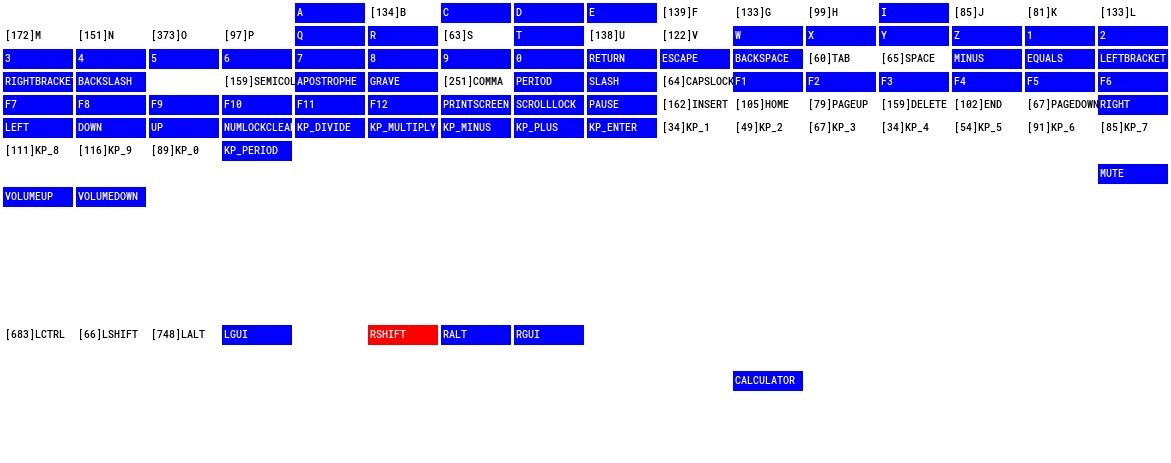
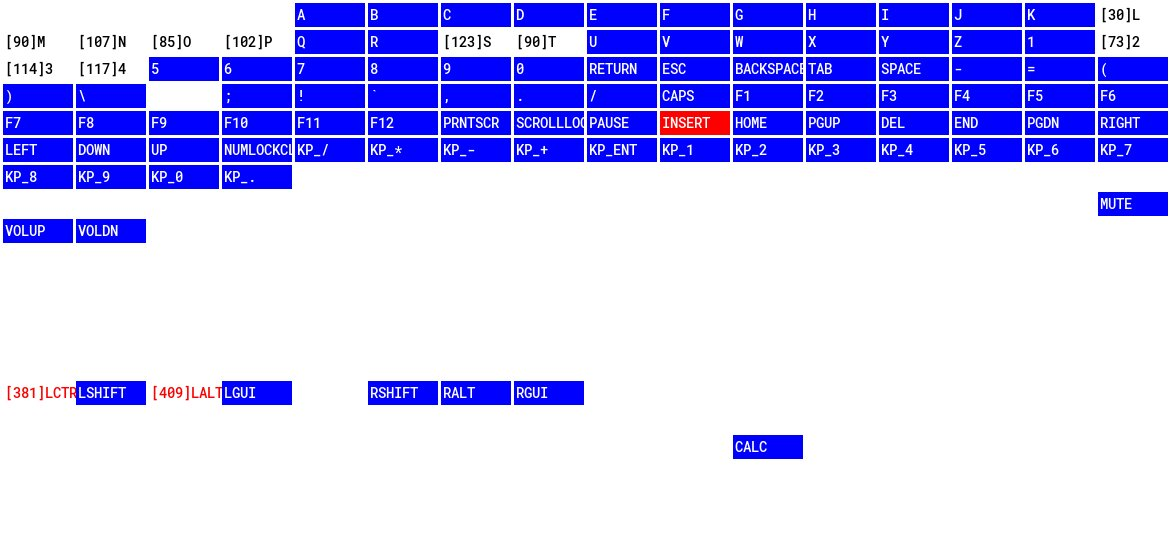
Some clean ups. #define'd FONT_SIZE at top, resize cells based on that Set FONT_SIZE to 14pt for readability.

diff --git a/keyboard-tester.c b/keyboard-tester.c
@@ -5,13 +5,15 @@
 #include <string.h>
 #include <time.h>
 
+#define FONT_NAME "font.ttf"
+#define FONT_SIZE 14
 
 #define PATH_MAX 4096
 
 #define KEYMAP_SIZE 285 // how many actual keyboard scancodes there are that SDL2 recognises
 
 #define KEY_WIDTH 70
-#define KEY_HEIGHT 20
+#define KEY_HEIGHT FONT_SIZE+10 
 #define KEY_SPACING 3
 #define KEYS_ACROSS 16
 #define KEYS_DOWN 20
@@ -21,7 +23,6 @@
 
 #define FL __FILE__,__LINE__
 
-#define FONT_NAME "font.ttf"
 
 
 struct key {
@@ -101,27 +102,27 @@ int map_default( struct globals *g ) {
 
 	g->keys[39].name = "0";
 	g->keys[40].name = "RETURN";
-	g->keys[41].name = "ESCAPE";
+	g->keys[41].name = "ESC";
 	g->keys[42].name = "BACKSPACE";
 
 	g->keys[43].name = "TAB";
 	g->keys[44].name = "SPACE";
-	g->keys[45].name = "MINUS";
-	g->keys[46].name = "EQUALS";
+	g->keys[45].name = "-";
+	g->keys[46].name = "=";
 
-	g->keys[47].name = "LEFTBRACKET";
-	g->keys[48].name = "RIGHTBRACKET";
-	g->keys[49].name = "BACKSLASH";
+	g->keys[47].name = "(";
+	g->keys[48].name = ")";
+	g->keys[49].name = "\\";
 	g->keys[50].name = "NONUSHASH";
 
-	g->keys[51].name = "SEMICOLON";
-	g->keys[52].name = "APOSTROPHE";
-	g->keys[53].name = "GRAVE";
-	g->keys[54].name = "COMMA";
+	g->keys[51].name = ";";
+	g->keys[52].name = "!";
+	g->keys[53].name = "`";
+	g->keys[54].name = ",";
 
-	g->keys[55].name = "PERIOD";
-	g->keys[56].name = "SLASH";
-	g->keys[57].name = "CAPSLOCK";
+	g->keys[55].name = ".";
+	g->keys[56].name = "/";
+	g->keys[57].name = "CAPS";
 	g->keys[58].name = "F1";
 
 	g->keys[59].name = "F2";
@@ -137,17 +138,17 @@ int map_default( struct globals *g ) {
 	g->keys[67].name = "F10";
 	g->keys[68].name = "F11";
 	g->keys[69].name = "F12";
-	g->keys[70].name = "PRINTSCREEN";
+	g->keys[70].name = "PRNTSCR";
 
 	g->keys[71].name = "SCROLLLOCK";
 	g->keys[72].name = "PAUSE";
 	g->keys[73].name = "INSERT";
 	g->keys[74].name = "HOME";
 
-	g->keys[75].name = "PAGEUP";
-	g->keys[76].name = "DELETE";
+	g->keys[75].name = "PGUP";
+	g->keys[76].name = "DEL";
 	g->keys[77].name = "END";
-	g->keys[78].name = "PAGEDOWN";
+	g->keys[78].name = "PGDN";
 
 	g->keys[79].name = "RIGHT";
 	g->keys[80].name = "LEFT";
@@ -155,12 +156,12 @@ int map_default( struct globals *g ) {
 	g->keys[82].name = "UP";
 
 	g->keys[83].name = "NUMLOCKCLEAR";
-	g->keys[84].name = "KP_DIVIDE";
-	g->keys[85].name = "KP_MULTIPLY";
-	g->keys[86].name = "KP_MINUS";
+	g->keys[84].name = "KP_/";
+	g->keys[85].name = "KP_*";
+	g->keys[86].name = "KP_-";
 
-	g->keys[87].name = "KP_PLUS";
-	g->keys[88].name = "KP_ENTER";
+	g->keys[87].name = "KP_+";
+	g->keys[88].name = "KP_ENT";
 	g->keys[89].name = "KP_1";
 	g->keys[90].name = "KP_2";
 
@@ -174,12 +175,12 @@ int map_default( struct globals *g ) {
 	g->keys[97].name = "KP_9";
 	g->keys[98].name = "KP_0";
 
-	g->keys[99].name = "KP_PERIOD";
+	g->keys[99].name = "KP_.";
 	g->keys[100].name = "NONUSBACKSLASH";
-	g->keys[101].name = "APPLICATION";
+	g->keys[101].name = "APP";
 	g->keys[102].name = "POWER";
 
-	g->keys[103].name = "KP_EQUALS";
+	g->keys[103].name = "KP_=";
 	g->keys[104].name = "F13";
 	g->keys[105].name = "F14";
 	g->keys[106].name = "F15";
@@ -210,22 +211,22 @@ int map_default( struct globals *g ) {
 	g->keys[126].name = "FIND";
 
 	g->keys[127].name = "MUTE";
-	g->keys[128].name = "VOLUMEUP";
-	g->keys[129].name = "VOLUMEDOWN";
-	g->keys[133].name = "KP_COMMA";
+	g->keys[128].name = "VOLUP";
+	g->keys[129].name = "VOLDN";
+	g->keys[133].name = "KP_,";
 
-	g->keys[134].name = "KP_EQUALSAS400";
-	g->keys[135].name = "INTERNATIONAL1";
-	g->keys[136].name = "INTERNATIONAL2";
-	g->keys[137].name = "INTERNATIONAL3";
+	g->keys[134].name = "KP_=";
+	g->keys[135].name = "INTL1";
+	g->keys[136].name = "INTL2";
+	g->keys[137].name = "INTL3";
 
-	g->keys[138].name = "INTERNATIONAL4";
-	g->keys[139].name = "INTERNATIONAL5";
-	g->keys[140].name = "INTERNATIONAL6";
-	g->keys[141].name = "INTERNATIONAL7";
+	g->keys[138].name = "INTL4";
+	g->keys[139].name = "INTL5";
+	g->keys[140].name = "INTL6";
+	g->keys[141].name = "INTL7";
 
-	g->keys[142].name = "INTERNATIONAL8";
-	g->keys[143].name = "INTERNATIONAL9";
+	g->keys[142].name = "INTL8";
+	g->keys[143].name = "INTL9";
 	g->keys[144].name = "LANG1";
 	g->keys[145].name = "LANG2";
 
@@ -260,13 +261,13 @@ int map_default( struct globals *g ) {
 	g->keys[180].name = "CURRENCYUNIT";
 
 	g->keys[181].name = "CURRENCYSUBUNIT";
-	g->keys[182].name = "KP_LEFTPAREN";
-	g->keys[183].name = "KP_RIGHTPAREN";
-	g->keys[184].name = "KP_LEFTBRACE";
+	g->keys[182].name = "KP_(";
+	g->keys[183].name = "KP_)";
+	g->keys[184].name = "KP_{";
 
-	g->keys[185].name = "KP_RIGHTBRACE";
+	g->keys[185].name = "KP_}";
 	g->keys[186].name = "KP_TAB";
-	g->keys[187].name = "KP_BACKSPACE";
+	g->keys[187].name = "KP_BKSPC";
 	g->keys[188].name = "KP_A";
 
 	g->keys[189].name = "KP_B";
@@ -321,31 +322,31 @@ int map_default( struct globals *g ) {
 
 	g->keys[231].name = "RGUI";
 	g->keys[257].name = "MODE";
-	g->keys[258].name = "AUDIONEXT";
-	g->keys[259].name = "AUDIOPREV";
+	g->keys[258].name = "AUNEXT";
+	g->keys[259].name = "AUPREV";
 
-	g->keys[260].name = "AUDIOSTOP";
-	g->keys[261].name = "AUDIOPLAY";
-	g->keys[262].name = "AUDIOMUTE";
-	g->keys[263].name = "MEDIASELECT";
+	g->keys[260].name = "AUSTOP";
+	g->keys[261].name = "AUPLAY";
+	g->keys[262].name = "AUMUTE";
+	g->keys[263].name = "MEDIASEL";
 
 	g->keys[264].name = "WWW";
 	g->keys[265].name = "MAIL";
-	g->keys[266].name = "CALCULATOR";
-	g->keys[267].name = "COMPUTER";
+	g->keys[266].name = "CALC";
+	g->keys[267].name = "COMPTR";
 
-	g->keys[268].name = "AC_SEARCH";
-	g->keys[269].name = "AC_HOME";
-	g->keys[270].name = "AC_BACK";
-	g->keys[271].name = "AC_FORWARD";
+	g->keys[268].name = "SEARCH";
+	g->keys[269].name = "HOME";
+	g->keys[270].name = "BACK";
+	g->keys[271].name = "FORWARD";
 
-	g->keys[272].name = "AC_STOP";
-	g->keys[273].name = "AC_REFRESH";
-	g->keys[274].name = "AC_BOOKMARKS";
-	g->keys[275].name = "BRIGHTNESSDOWN";
+	g->keys[272].name = "STOP";
+	g->keys[273].name = "REFRESH";
+	g->keys[274].name = "BOOKMARKS";
+	g->keys[275].name = "BRIGHTDN";
 
-	g->keys[276].name = "BRIGHTNESSUP";
-	g->keys[277].name = "DISPLAYSWITCH";
+	g->keys[276].name = "BRIGHTUP";
+	g->keys[277].name = "DISPSW";
 	g->keys[278].name = "KBDILLUMTOGGLE";
 	g->keys[279].name = "KBDILLUMDOWN";
 	g->keys[280].name = "KBDILLUMUP";
@@ -566,7 +567,7 @@ int init( struct globals *g ) {
 	g->quit_on_complete = 0;
 
 	TTF_Init();
-	g->font = TTF_OpenFont(FONT_NAME, 10 );
+	g->font = TTF_OpenFont(FONT_NAME, FONT_SIZE );
 	if (g->font == NULL) {
 		fprintf(stderr, "error: font not found\n");
 		exit(EXIT_FAILURE);
@@ -656,6 +657,7 @@ int parse_parameters( struct globals *g, int argc, char **argv ) {
 	return 0;
 } // parse paramters
 
+
 int print_keyboard( struct globals *g ) {
 
 	int i;
@@ -663,13 +665,15 @@ int print_keyboard( struct globals *g ) {
 	fprintf(stdout,"\n-----------------------------\n");
 	for (i = 0; i <= g->max_index; i++) {
 		if ( g->keys[i].pressed == 0  && g->keys[i].group == 0) {
-			if (*g->keys[0].name != '\0') fprintf(stdout, "%s ", g->keys[i].name);
+			if (*g->keys[i].name != '\0') fprintf(stdout, "%s ", g->keys[i].name);
 		}
 		if (i%10 == 0) fprintf(stdout,"\n");
 	}
 
 	return 0;
 }
+
+
 int dump_remaining( struct globals *g ) {
 
 	int i;
@@ -685,6 +689,7 @@ int dump_remaining( struct globals *g ) {
 
 	return 0;
 }
+
 
 int load_map( struct globals *g, char *fn ) {
 	FILE *f;
@@ -708,6 +713,7 @@ int load_map( struct globals *g, char *fn ) {
 	}
 	return 0;
 }
+
 
 int save_map( struct globals *g ) {
 
@@ -734,6 +740,8 @@ int save_map( struct globals *g ) {
 	return 0;
 }
 
+
+
 int display_keys( struct globals *g ) {
 	int i;
 	SDL_Rect r;
@@ -746,60 +754,60 @@ int display_keys( struct globals *g ) {
 
 	for (i = 0; i <= g->max_index; i++) {
 		if (g->keys[i].name != NULL) {
-		if ( g->keys[i].pressed < 2 ) {
-			g->any_unpressed = 1;
-			if (g->keys[i].pressed == 0) SDL_SetRenderDrawColor( g->renderer,  0, 0, 255, 255 );
-			else if (g->keys[i].pressed == 1) SDL_SetRenderDrawColor( g->renderer, 255, 0, 0, 255);
-			if (g->keys[i].group == 0) {
+			if ( g->keys[i].pressed < 2 ) {
+				g->any_unpressed = 1;
+				if (g->keys[i].pressed == 0) SDL_SetRenderDrawColor( g->renderer,  0, 0, 255, 255 );
+				else if (g->keys[i].pressed == 1) SDL_SetRenderDrawColor( g->renderer, 255, 0, 0, 255);
+				if (g->keys[i].group == 0) {
+					int texW = 0;
+					int texH = 0;
+					SDL_Color color = { 255, 255, 255 };
+					SDL_Surface *surface = NULL;
+					SDL_Texture *texture = NULL;
+
+					r.x = KEY_SPACING + (i % KEYS_ACROSS) *( r.w +KEY_SPACING );
+					r.y = KEY_SPACING + (i / KEYS_ACROSS) *( r.h +KEY_SPACING );
+					SDL_RenderFillRect( g->renderer, &r );
+					surface = TTF_RenderText_Blended(g->font, g->keys[i].name, color);
+					if (surface == NULL) {
+						fprintf(stderr,"Error creating surface for text (%s)\n", SDL_GetError());
+						exit(1);
+					}
+					texture = SDL_CreateTextureFromSurface(g->renderer, surface);
+					SDL_QueryTexture(texture, NULL, NULL, &texW, &texH);
+					SDL_Rect dstrect = { r.x +KEY_PADDING, r.y +KEY_PADDING, texW, texH };
+					SDL_RenderCopy(g->renderer, texture, NULL, &dstrect);
+					SDL_DestroyTexture(texture);
+					SDL_FreeSurface(surface);
+				} // if group 0
+
+			} // if pressed < 2
+
+			else {
+
+				// leave behind stats of the key press
+				//
 				int texW = 0;
 				int texH = 0;
-				SDL_Color color = { 255, 255, 255 };
+				SDL_Color color = { 0, 0, 0 };
 				SDL_Surface *surface = NULL;
 				SDL_Texture *texture = NULL;
+				char dwell[20];
 
 				r.x = KEY_SPACING + (i % KEYS_ACROSS) *( r.w +KEY_SPACING );
 				r.y = KEY_SPACING + (i / KEYS_ACROSS) *( r.h +KEY_SPACING );
-				SDL_RenderFillRect( g->renderer, &r );
-				surface = TTF_RenderText_Blended(g->font, g->keys[i].name, color);
-				if (surface == NULL) {
-					fprintf(stderr,"Error creating surface for text (%s)\n", SDL_GetError());
-					exit(1);
-				}
+
+				if (g->keys[i].flagged == 1) color.r = 255;
+				snprintf(dwell, sizeof(dwell), "[%u]%s", g->keys[i].delta, g->keys[i].name );
+
+				surface = TTF_RenderText_Blended(g->font, dwell, color);
 				texture = SDL_CreateTextureFromSurface(g->renderer, surface);
 				SDL_QueryTexture(texture, NULL, NULL, &texW, &texH);
 				SDL_Rect dstrect = { r.x +KEY_PADDING, r.y +KEY_PADDING, texW, texH };
 				SDL_RenderCopy(g->renderer, texture, NULL, &dstrect);
 				SDL_DestroyTexture(texture);
 				SDL_FreeSurface(surface);
-			} // if group 0
-
-		} // if pressed < 2
-
-		else {
-
-			// leave behind stats of the key press
-			//
-			int texW = 0;
-			int texH = 0;
-			SDL_Color color = { 0, 0, 0 };
-			SDL_Surface *surface = NULL;
-			SDL_Texture *texture = NULL;
-			char dwell[20];
-
-			r.x = KEY_SPACING + (i % KEYS_ACROSS) *( r.w +KEY_SPACING );
-			r.y = KEY_SPACING + (i / KEYS_ACROSS) *( r.h +KEY_SPACING );
-
-			if (g->keys[i].flagged == 1) color.r = 255;
-			snprintf(dwell, sizeof(dwell), "[%u]%s", g->keys[i].delta, g->keys[i].name );
-
-			surface = TTF_RenderText_Blended(g->font, dwell, color);
-			texture = SDL_CreateTextureFromSurface(g->renderer, surface);
-			SDL_QueryTexture(texture, NULL, NULL, &texW, &texH);
-			SDL_Rect dstrect = { r.x +KEY_PADDING, r.y +KEY_PADDING, texW, texH };
-			SDL_RenderCopy(g->renderer, texture, NULL, &dstrect);
-			SDL_DestroyTexture(texture);
-			SDL_FreeSurface(surface);
-		}
+			}
 
 		}
 	}
